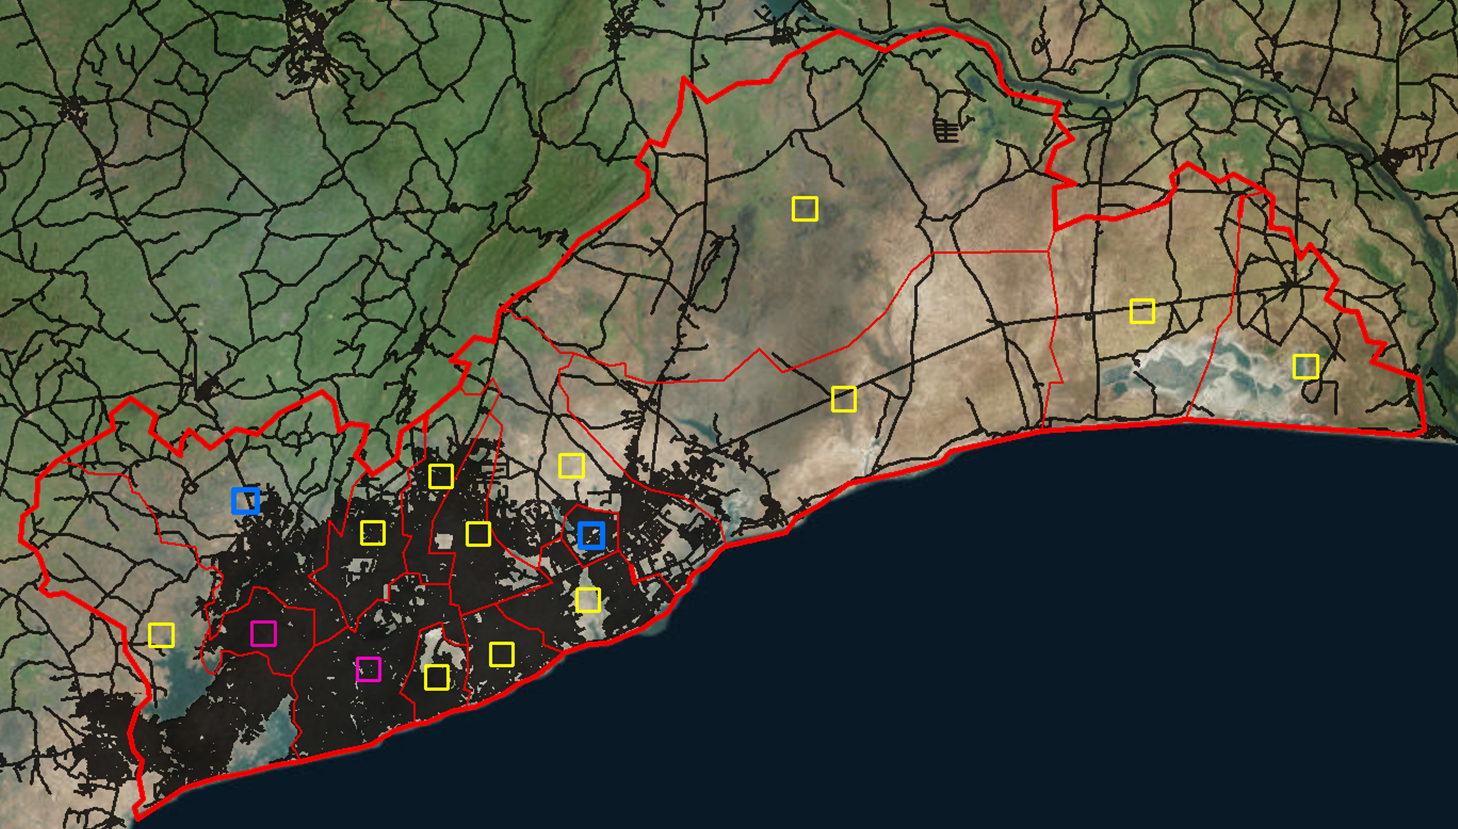
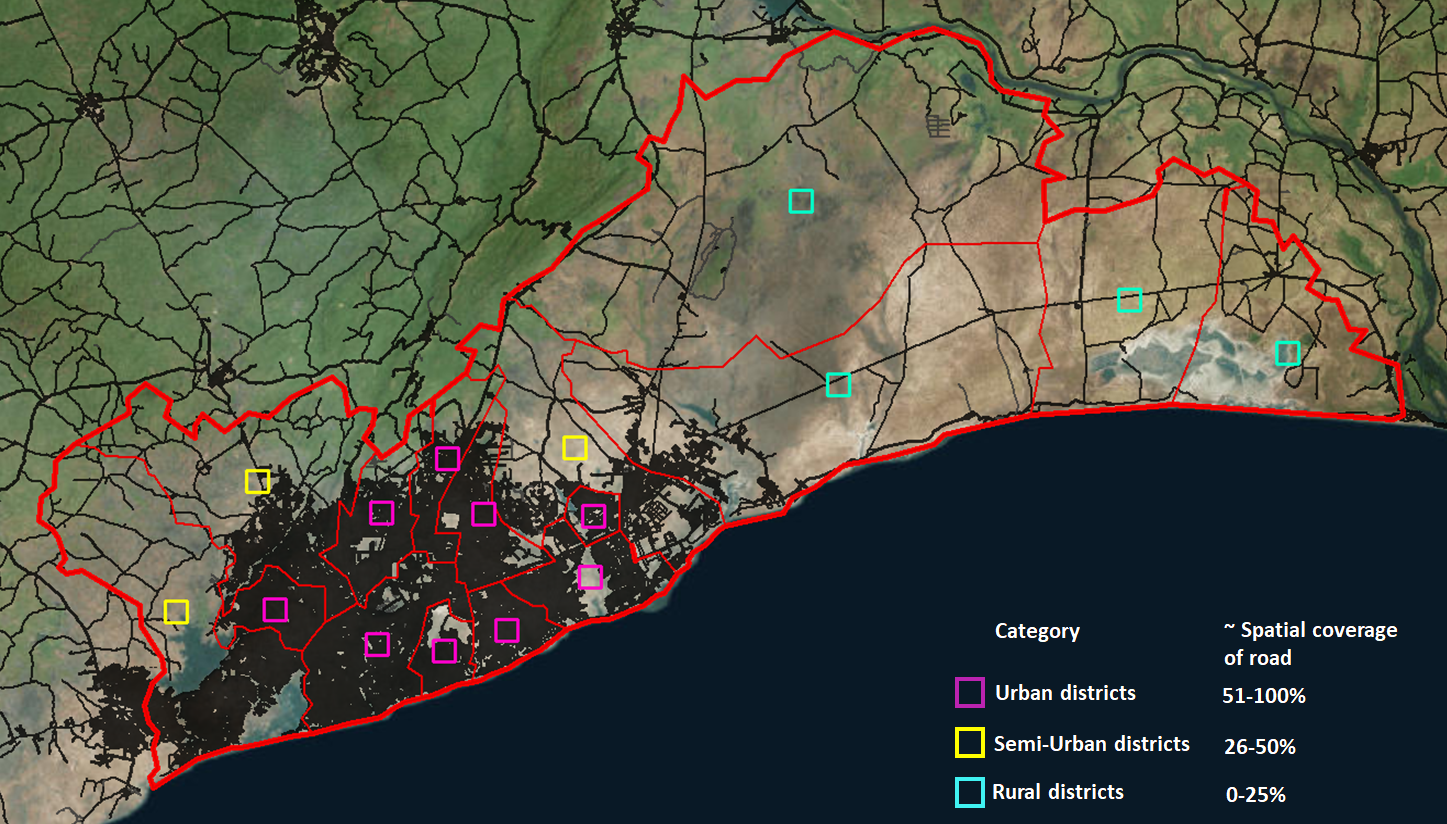
updating quality assessement

diff --git a/README.md b/README.md
@@ -249,13 +249,14 @@ The positional accuracy is described as the position of a feature on a map relat
 
 **Assessment of Accra's OSM**
 
-A systematic visual inspection was carried out so as to assess both the positional accuracy and the completeness of the current OSM datasets covering the GAMA. This was accomplished by placing a 2km by 2km grid at the geometrical centre of each district (Fig.). From our observations, these grids provide a good cross-section of the street network across GAMA, from the high population density district of Accra metropolitan to the low population density of Shai Osudoku. Six out of sixteen of these grids cover little or no street segments, thereby reflecting the semi-urban landscape of those districts. On the other hand, the grids of highly urbanised districts, such as Ga Central Municipal and Accra Metropolis (highlighted in pink colour) contained very dense street networks, with total lengths of 64km and 45km, respectively.
+A systematic visual inspection was carried out so as to assess both the positional accuracy and the completeness of the current OSM datasets covering the GAMA. This was accomplished by placing a 2km by 2km grid at the geometrical centre of each district (Fig.). From our observations, these grids provide a good cross-section of the street network across GAMA, from the high population density district of Accra metropolitan to the low population density of Shai Osudoku. We classified the districts into three, namely (1) urban district, (2) semi-urban district and (3) rural districts. This classification is based on whether the road infrastructures (roughly estimated from the satellite image) have spatial coverage between 51-100%, 25-50%, or 0-25% of their respective district. In other words, we use road infrastructure as a proxy for urbanisation. These are colored in pink, yellow and blue grids, respectively. The urban districts, such as Ga Central Municipal and Accra Metropolis, are characterised by very dense street networks, while the semi-urban districts such as Ga West Municipal and Ga South Municipal districs, do also contain dense street network, but around the areas that are adjacent to urban districts. The four eastern-most districts contained the least road coverage, which include only trunk roads connect GAMA to the other regions of the country.
 
-<img src="fig/quality grid_osm_accra.png" alt="The OSM map of GAMA, with 2km x 2km grids placed at the geometrical centre of each district. The pink grids represent the centres of Ga Central Municipal and Accra Metropolis district (from left to right) – the two highly urbanised districts). The blue grids represent the centres of Ga West Municipal and Ashaiman Municipal districts (from left to right) – two moderately urbanised districts." width="100%" />
+<img src="fig/quality grid_osm_accra.png" alt="The OSM map of GAMA, with 2km x 2km grids placed at the geometrical centre of each district." width="100%" />
 <p class="caption">
-The OSM map of GAMA, with 2km x 2km grids placed at the geometrical centre of each district. The pink grids represent the centres of Ga Central Municipal and Accra Metropolis district (from left to right) – the two highly urbanised districts). The blue grids represent the centres of Ga West Municipal and Ashaiman Municipal districts (from left to right) – two moderately urbanised districts.
+The OSM map of GAMA, with 2km x 2km grids placed at the geometrical centre of each district.
 </p>
 
+<!-- The pink grids represent the centres of Ga Central Municipal and Accra Metropolis district (from left to right) – the two highly urbanised districts). The blue grids represent the centres of Ga West Municipal and Ashaiman Municipal districts (from left to right) – two moderately urbanised districts. -->
 The visual inspection of Ga Central Municipal and Accra Metropolis (highlighted in pink colour), two highly urbanised districts, revealed very high positional accuracy and completeness of the OSM datasets. The street segments are well-aligned and properly contained within the width of their respective raster representation. Only three and five cases of uncaptured street segments were identified in the grid of Ga Central and Accra Metropolis, respectively. This implies a high ‘completeness’ level of dataset for both districts. Similar levels of positional accuracy and completeness were obtained in other similar districts, such as Ledzokuku Municipal, Ga East Municipal and Adenta Municipal districts.
 
 <img src="fig/quality assessment_osm_accra.png" alt="Left image - Ga West Municipal and Right image - Ashaiman Municipal districts (left and right, respectively) – two semi-urban districts. The oval shapes indicate areas where streets are missing." width="100%" />
